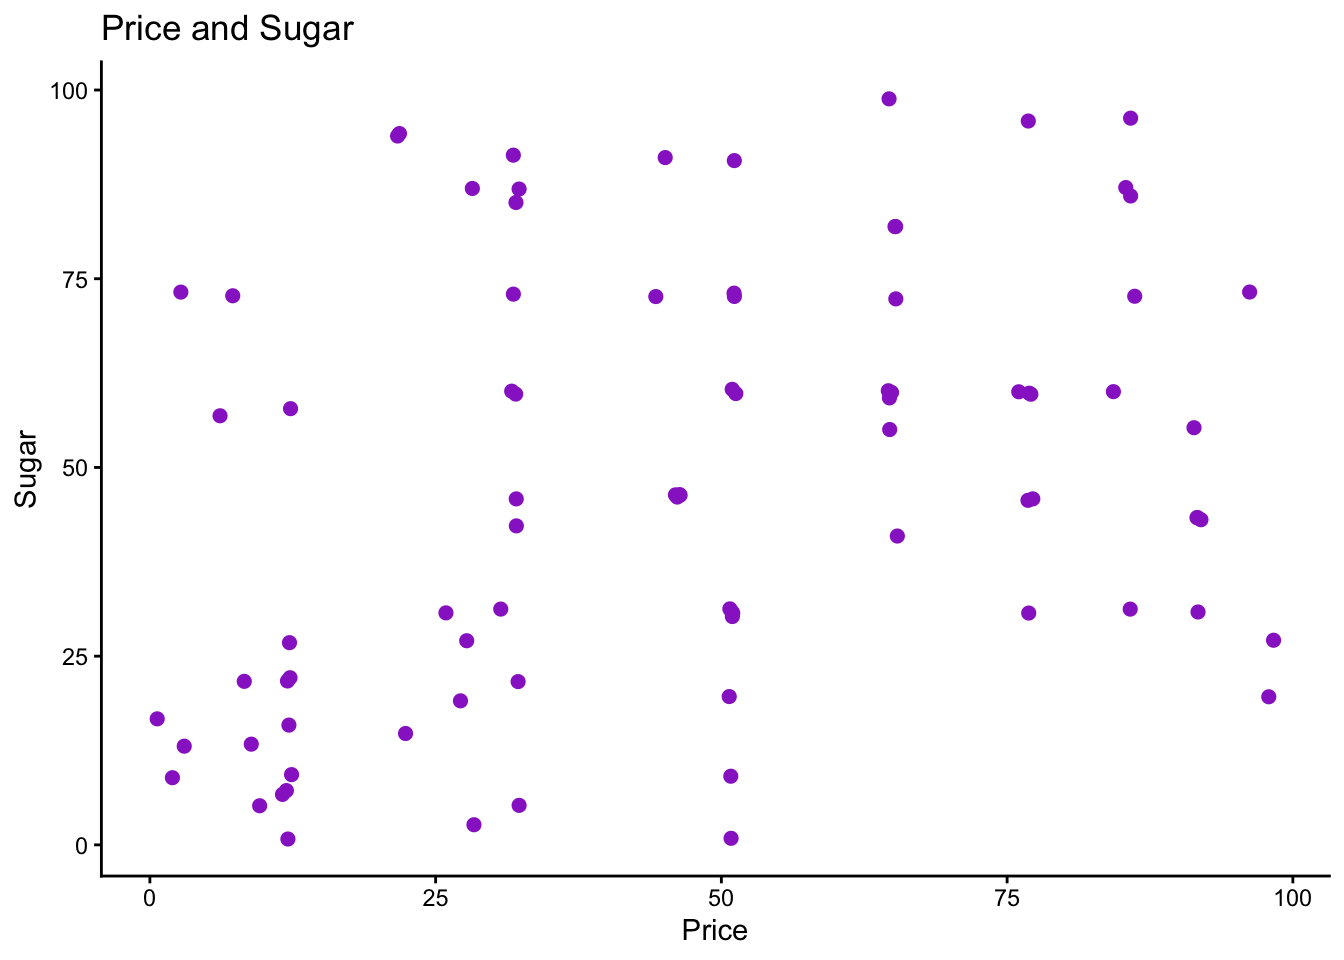
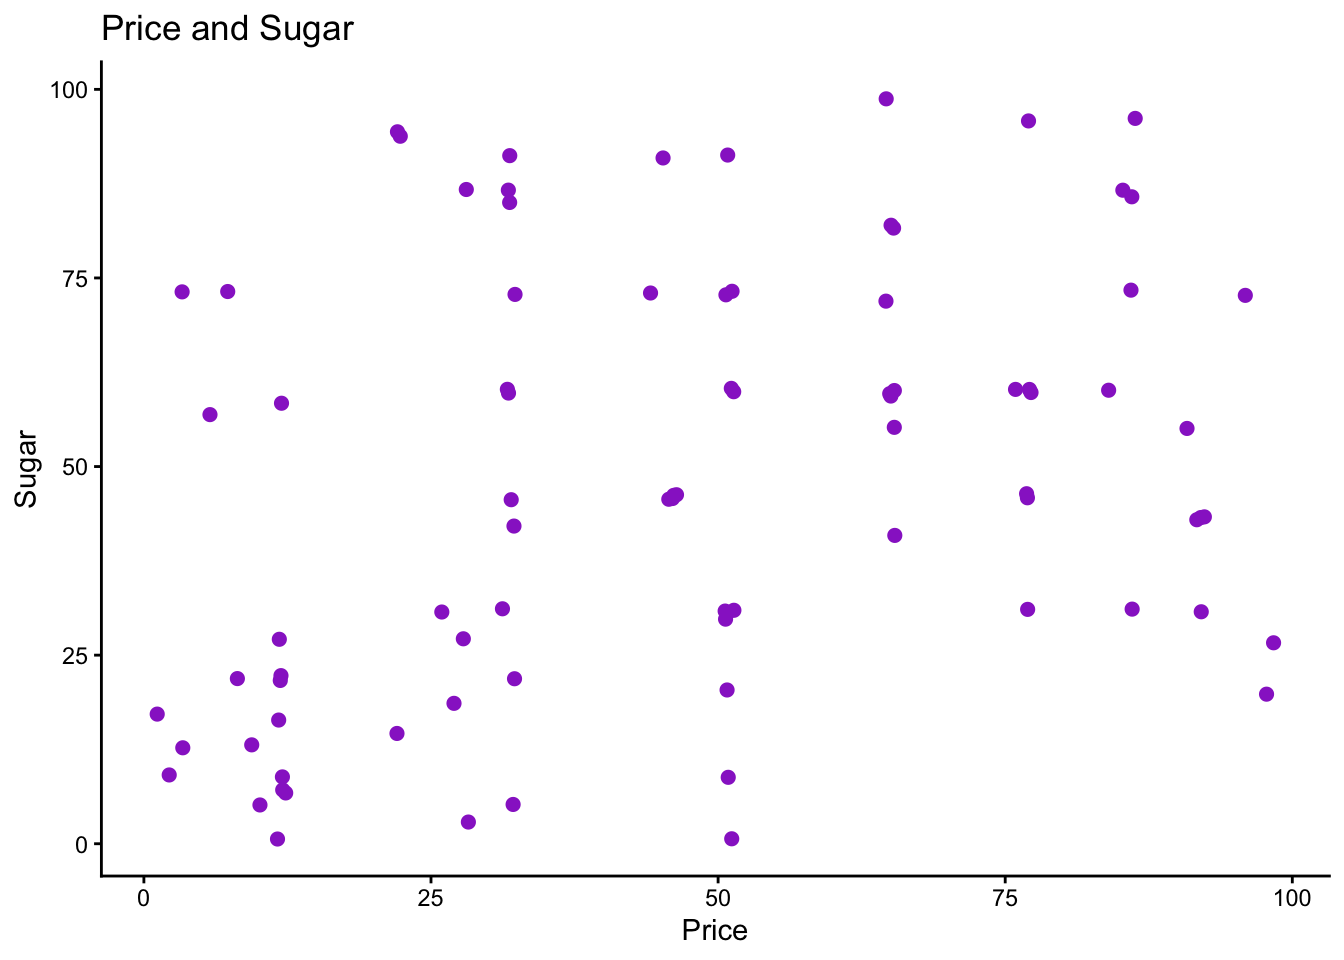
Built site for gh-pages

diff --git a/index.html b/index.html
@@ -1295,7 +1295,7 @@ Attaching package: 'testthat'</code></pre>
 <span id="cb66-5"><a href="#cb66-5" aria-hidden="true" tabindex="-1"></a>  <span class="fu">expect_equal</span>(<span class="fu">average</span>(<span class="fu">c</span>(<span class="sc">-</span><span class="dv">2</span>, <span class="sc">-</span><span class="dv">1</span>, <span class="dv">1</span>, <span class="dv">2</span>)), <span class="dv">0</span>)</span>
 <span id="cb66-6"><a href="#cb66-6" aria-hidden="true" tabindex="-1"></a>})</span></code><button title="Copy to Clipboard" class="code-copy-button"><i class="bi"></i></button></pre></div>
 <div class="cell-output cell-output-stdout">
-<pre><code>Test passed with 4 successes 😀.</code></pre>
+<pre><code>Test passed with 4 successes 🌈.</code></pre>
 </div>
 </div>
 <p>Pour que notre code reste lisible, il faut qu’on divise notre code selon ce qu’on fait.<br>
@@ -1310,14 +1310,14 @@ Donc quand on met tel input, on aura un warning :<br>
 <span id="cb68-5"><a href="#cb68-5" aria-hidden="true" tabindex="-1"></a>  <span class="fu">expect_equal</span>(<span class="fu">average</span>(<span class="fu">c</span>(<span class="sc">-</span><span class="dv">2</span>, <span class="sc">-</span><span class="dv">1</span>, <span class="dv">1</span>, <span class="dv">2</span>)), <span class="dv">0</span>)</span>
 <span id="cb68-6"><a href="#cb68-6" aria-hidden="true" tabindex="-1"></a>})</span></code><button title="Copy to Clipboard" class="code-copy-button"><i class="bi"></i></button></pre></div>
 <div class="cell-output cell-output-stdout">
-<pre><code>Test passed with 4 successes 🥳.</code></pre>
+<pre><code>Test passed with 4 successes 🌈.</code></pre>
 </div>
 <div class="sourceCode cell-code" id="cb70"><pre class="sourceCode r code-with-copy"><code class="sourceCode r"><span id="cb70-1"><a href="#cb70-1" aria-hidden="true" tabindex="-1"></a><span class="fu">test_that</span>(<span class="st">"`average` warns about NAs in input"</span>, {</span>
 <span id="cb70-2"><a href="#cb70-2" aria-hidden="true" tabindex="-1"></a>  <span class="fu">expect_warning</span>(<span class="fu">average</span>(<span class="fu">c</span>(<span class="dv">1</span>, <span class="cn">NA</span>, <span class="dv">3</span>)))</span>
 <span id="cb70-3"><a href="#cb70-3" aria-hidden="true" tabindex="-1"></a>  <span class="fu">expect_warning</span>(<span class="fu">average</span>(<span class="fu">c</span>(<span class="cn">NA</span>, <span class="cn">NA</span>, <span class="cn">NA</span>)))</span>
 <span id="cb70-4"><a href="#cb70-4" aria-hidden="true" tabindex="-1"></a>})</span></code><button title="Copy to Clipboard" class="code-copy-button"><i class="bi"></i></button></pre></div>
 <div class="cell-output cell-output-stdout">
-<pre><code>Test passed with 2 successes 🎉.</code></pre>
+<pre><code>Test passed with 2 successes 🥇.</code></pre>
 </div>
 </div>
 <p>Bon le frérot rajoute encore et toujours des figures de cas à tester, maintenant on en met une entre les deux qu’on a déjà (je les ai pas mises ici par souci de lisibilité) pour utiliser la fonction <code>suppressWarnings</code> pour ignorer les warning et juste tester la valeur obtenue.</p>
@@ -1327,7 +1327,7 @@ Donc quand on met tel input, on aura un warning :<br>
 <span id="cb72-3"><a href="#cb72-3" aria-hidden="true" tabindex="-1"></a>  <span class="fu">expect_equal</span>(<span class="fu">suppressWarnings</span>(<span class="fu">average</span>(<span class="fu">c</span>(<span class="cn">NA</span>, <span class="cn">NA</span>, <span class="cn">NA</span>))), <span class="cn">NA</span>)</span>
 <span id="cb72-4"><a href="#cb72-4" aria-hidden="true" tabindex="-1"></a>})</span></code><button title="Copy to Clipboard" class="code-copy-button"><i class="bi"></i></button></pre></div>
 <div class="cell-output cell-output-stdout">
-<pre><code>Test passed with 2 successes 😀.</code></pre>
+<pre><code>Test passed with 2 successes 🎉.</code></pre>
 </div>
 </div>
 <p>La fonction <code>expect_error</code> permet de dire qu’on s’attend à une erreur si on donne telle valeur, ici on le fait avec des valeurs de type character :</p>
@@ -1337,7 +1337,7 @@ Donc quand on met tel input, on aura un warning :<br>
 <span id="cb74-3"><a href="#cb74-3" aria-hidden="true" tabindex="-1"></a>  <span class="fu">expect_error</span>(<span class="fu">average</span>(<span class="fu">c</span>(<span class="st">"1"</span>, <span class="st">"2"</span>, <span class="st">"3"</span>)))</span>
 <span id="cb74-4"><a href="#cb74-4" aria-hidden="true" tabindex="-1"></a>})</span></code><button title="Copy to Clipboard" class="code-copy-button"><i class="bi"></i></button></pre></div>
 <div class="cell-output cell-output-stdout">
-<pre><code>Test passed with 2 successes 😸.</code></pre>
+<pre><code>Test passed with 2 successes 🎉.</code></pre>
 </div>
 </div>
 </section>
